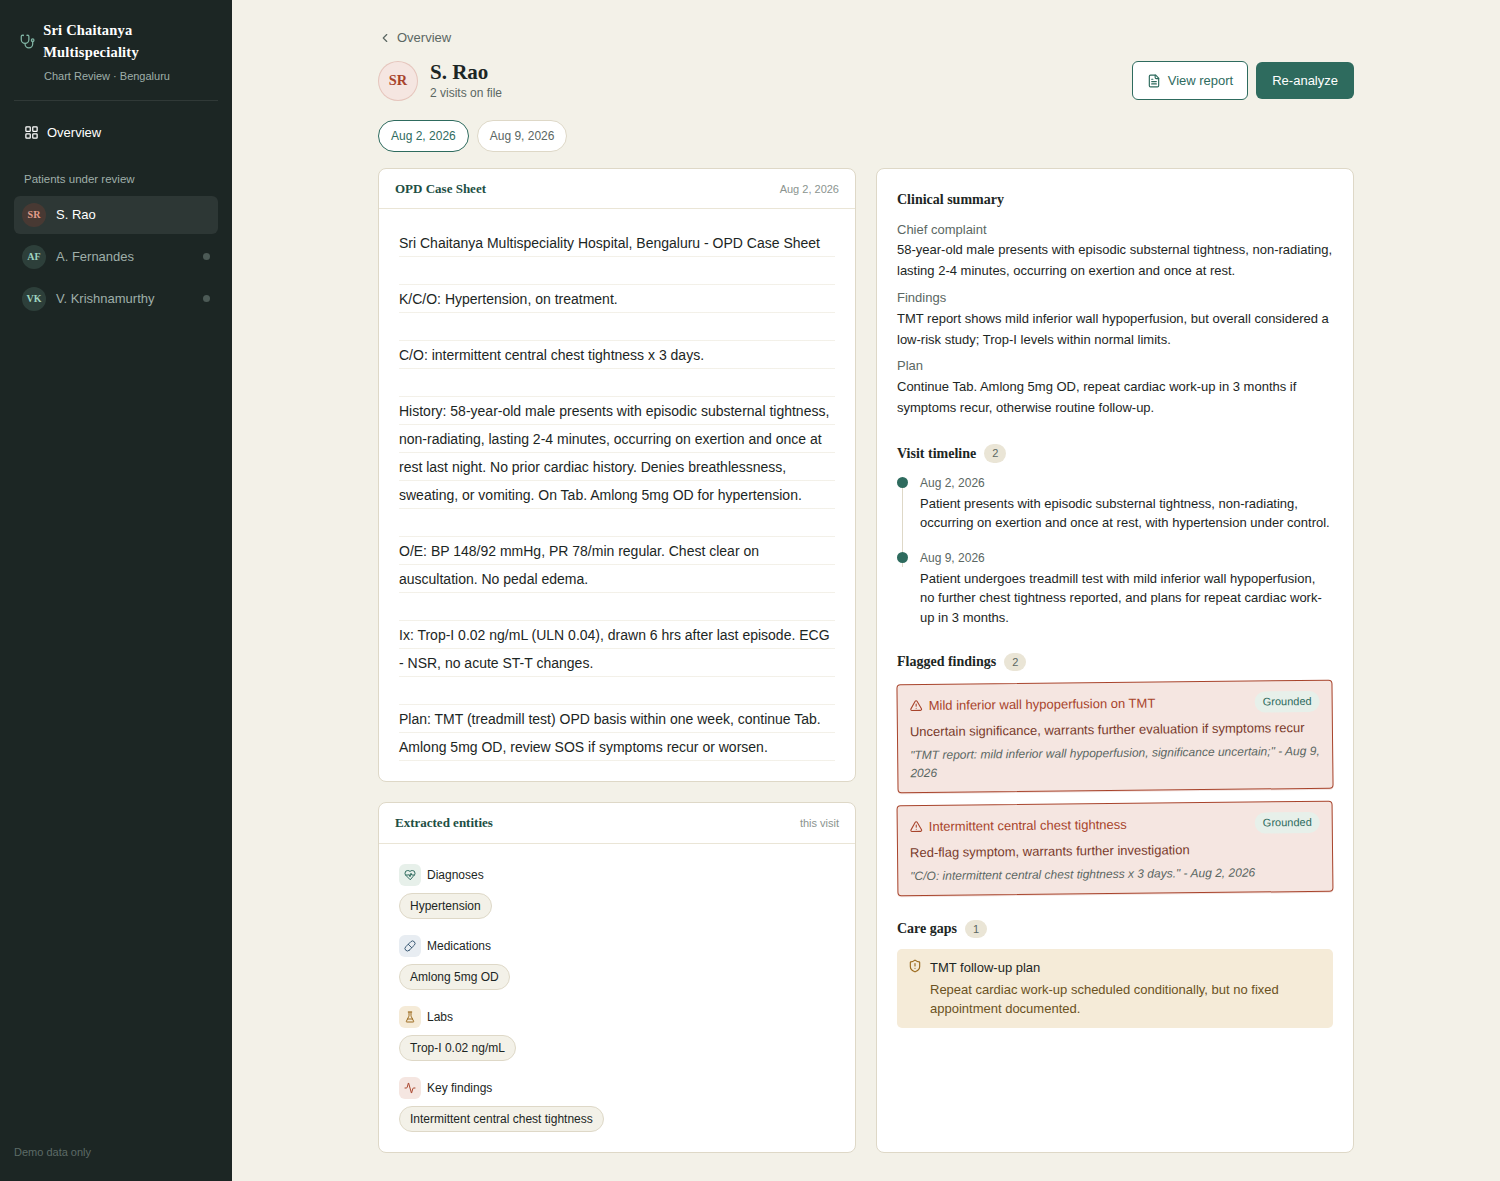
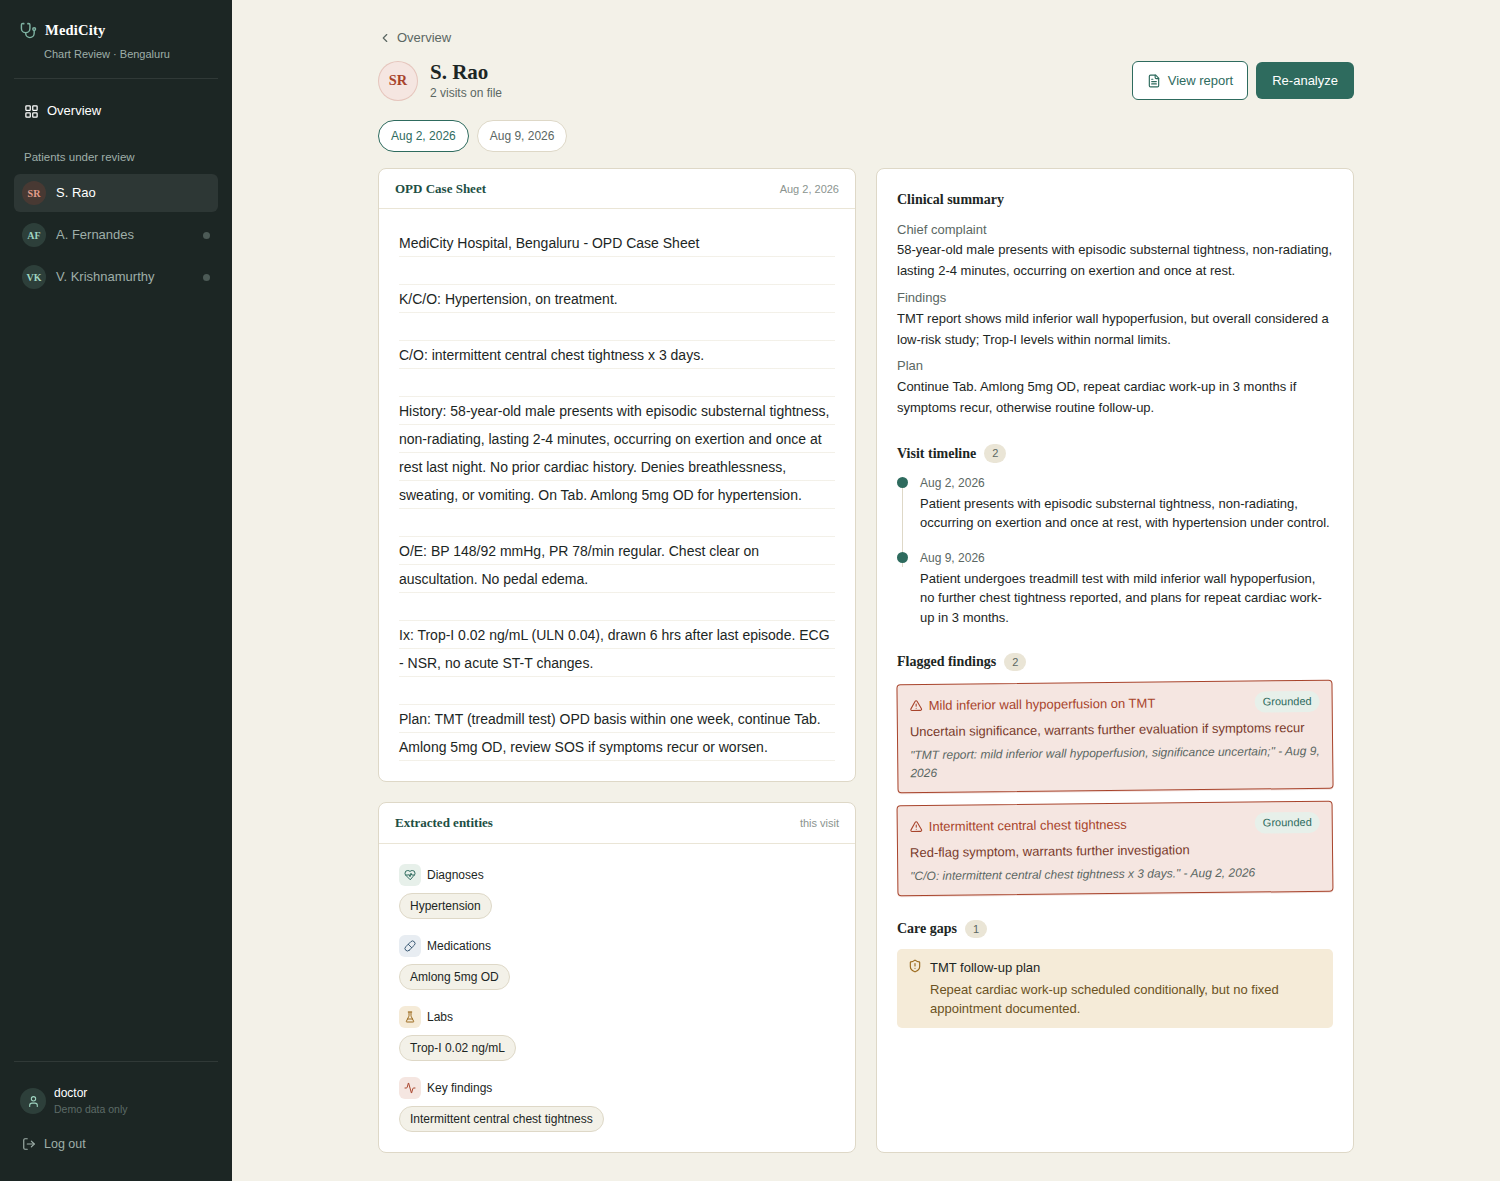
Rename hospital to MediCity, add login/logout

Changed region(s): [[0.0, 0.0, 0.1227, 0.2743], [0.276, 0.1829, 0.552, 0.2134], [0.0, 0.9145, 0.0613, 0.9754]]

diff --git a/frontend/src/App.jsx b/frontend/src/App.jsx
@@ -15,6 +15,9 @@ import {
   Activity,
   Printer,
   FileText,
+  Lock,
+  LogOut,
+  User,
 } from "lucide-react";
 import {
   BarChart,
@@ -27,6 +30,13 @@ import {
 } from "recharts";
 
 const API_BASE = import.meta.env.VITE_API_BASE_URL || "http://localhost:8000";
+
+// Demo-only login gate. There's no backend user store behind this - it's a
+// client-side check so the app has a real login/logout flow to demo, not a
+// production auth system. Swap this for a real backend auth call before
+// this ever holds real patient data.
+const AUTH_STORAGE_KEY = "medicity_auth_user";
+const DEMO_USER = { username: "doctor", password: "medicity2026", displayName: "Dr. on Duty" };
 
 const CONFIDENCE_STYLES = {
   grounded: { label: "Grounded", color: "#2E6B5E", bg: "#E7F0EA" },
@@ -223,6 +233,155 @@ function EntityCategory({ label, Icon, color, bg, items }) {
   );
 }
 
+// --- Login ------------------------------------------------------------------
+
+function LoginPage({ onLogin }) {
+  const [username, setUsername] = useState("");
+  const [password, setPassword] = useState("");
+  const [error, setError] = useState("");
+  const [submitting, setSubmitting] = useState(false);
+
+  function handleSubmit(e) {
+    e.preventDefault();
+    setSubmitting(true);
+    setError("");
+    // Simulated network delay so the login feels real rather than instant.
+    setTimeout(() => {
+      if (username.trim() === DEMO_USER.username && password === DEMO_USER.password) {
+        onLogin(username.trim());
+      } else {
+        setError("Incorrect username or password.");
+      }
+      setSubmitting(false);
+    }, 350);
+  }
+
+  return (
+    <div
+      style={{
+        fontFamily: "'IBM Plex Sans', sans-serif",
+        background: colors.paper,
+        minHeight: "100vh",
+        display: "flex",
+        alignItems: "center",
+        justifyContent: "center",
+        padding: "24px",
+      }}
+    >
+      <style>{`.cns-serif { font-family: 'Source Serif 4', serif; }`}</style>
+      <div style={{ width: "100%", maxWidth: "380px" }}>
+        <div style={{ textAlign: "center", marginBottom: "22px" }}>
+          <span
+            style={{
+              display: "inline-flex",
+              alignItems: "center",
+              justifyContent: "center",
+              width: 46,
+              height: 46,
+              borderRadius: "10px",
+              background: colors.tealTint,
+              color: colors.tealDeep,
+              marginBottom: "12px",
+            }}
+          >
+            <Stethoscope size={22} />
+          </span>
+          <h1 className="cns-serif" style={{ fontSize: "22px", fontWeight: 600, color: colors.ink }}>
+            MediCity
+          </h1>
+          <p style={{ fontSize: "13px", color: colors.muted, marginTop: "2px" }}>Chart Review &middot; Bengaluru</p>
+        </div>
+
+        <form
+          onSubmit={handleSubmit}
+          style={{ background: colors.panel, border: `1px solid ${colors.line}`, borderRadius: "10px", padding: "26px" }}
+        >
+          <h2 className="cns-serif" style={{ fontSize: "16px", fontWeight: 600, marginBottom: "4px" }}>
+            Sign in
+          </h2>
+          <p style={{ fontSize: "12.5px", color: colors.muted, marginBottom: "18px" }}>
+            Enter your credentials to access the chart review dashboard.
+          </p>
+
+          <label style={{ display: "block", fontSize: "12px", color: colors.muted, marginBottom: "5px" }}>Username</label>
+          <div style={{ position: "relative", marginBottom: "14px" }}>
+            <User size={15} style={{ position: "absolute", left: "11px", top: "50%", transform: "translateY(-50%)", color: colors.faint }} />
+            <input
+              type="text"
+              value={username}
+              onChange={(e) => setUsername(e.target.value)}
+              placeholder="doctor"
+              autoFocus
+              style={{
+                width: "100%",
+                boxSizing: "border-box",
+                padding: "9px 12px 9px 34px",
+                fontSize: "13.5px",
+                border: `1px solid ${colors.line}`,
+                borderRadius: "6px",
+                outline: "none",
+                fontFamily: "inherit",
+              }}
+            />
+          </div>
+
+          <label style={{ display: "block", fontSize: "12px", color: colors.muted, marginBottom: "5px" }}>Password</label>
+          <div style={{ position: "relative", marginBottom: "6px" }}>
+            <Lock size={15} style={{ position: "absolute", left: "11px", top: "50%", transform: "translateY(-50%)", color: colors.faint }} />
+            <input
+              type="password"
+              value={password}
+              onChange={(e) => setPassword(e.target.value)}
+              placeholder="&bull;&bull;&bull;&bull;&bull;&bull;&bull;&bull;"
+              style={{
+                width: "100%",
+                boxSizing: "border-box",
+                padding: "9px 12px 9px 34px",
+                fontSize: "13.5px",
+                border: `1px solid ${colors.line}`,
+                borderRadius: "6px",
+                outline: "none",
+                fontFamily: "inherit",
+              }}
+            />
+          </div>
+
+          {error && <p style={{ color: colors.rust, fontSize: "12.5px", marginTop: "8px" }}>{error}</p>}
+
+          <button
+            type="submit"
+            disabled={submitting}
+            style={{
+              width: "100%",
+              marginTop: "18px",
+              background: colors.teal,
+              color: "#FFFFFF",
+              border: "none",
+              borderRadius: "6px",
+              padding: "10px 16px",
+              fontSize: "13.5px",
+              fontWeight: 500,
+              cursor: submitting ? "default" : "pointer",
+              opacity: submitting ? 0.8 : 1,
+              display: "inline-flex",
+              alignItems: "center",
+              justifyContent: "center",
+              gap: "7px",
+            }}
+          >
+            {submitting && <Loader2 size={14} className="animate-spin" />}
+            {submitting ? "Signing in..." : "Sign in"}
+          </button>
+        </form>
+
+        <p style={{ textAlign: "center", fontSize: "11.5px", color: colors.faint, marginTop: "16px" }}>
+          Demo credentials: <strong>doctor</strong> / <strong>medicity2026</strong>
+        </p>
+      </div>
+    </div>
+  );
+}
+
 // --- Printable lab-style report -------------------------------------------
 // A self-contained, print-friendly rendering of one patient's analysis -
 // letterhead, patient info block, and the same underlying data as the
@@ -321,7 +480,7 @@ function ReportView({ patient, result, onBack }) {
       >
         <div style={{ textAlign: "center", borderBottom: "2px solid #1A1A1A", paddingBottom: "14px", marginBottom: "22px" }}>
           <p className="cns-serif" style={{ fontSize: "19px", fontWeight: 700, letterSpacing: "0.3px" }}>
-            Sri Chaitanya Multispeciality Hospital
+            MediCity Hospital
           </p>
           <p style={{ fontSize: "11px", color: "#555555", marginTop: "2px" }}>
             Bengaluru, Karnataka &middot; Department of Medicine
@@ -458,6 +617,14 @@ function ReportView({ patient, result, onBack }) {
 }
 
 export default function App() {
+  const [currentUser, setCurrentUser] = useState(() => {
+    try {
+      return localStorage.getItem(AUTH_STORAGE_KEY) || null;
+    } catch {
+      return null;
+    }
+  });
+
   const [patients, setPatients] = useState([]);
   const [patientsError, setPatientsError] = useState(null);
   const [patientsLoading, setPatientsLoading] = useState(true);
@@ -470,7 +637,28 @@ export default function App() {
   const [errors, setErrors] = useState({});
   const [lastAnalyzed, setLastAnalyzed] = useState(null);
 
+  function handleLogin(username) {
+    try {
+      localStorage.setItem(AUTH_STORAGE_KEY, username);
+    } catch {
+      // localStorage can be unavailable (private browsing, blocked cookies);
+      // the session still works, it just won't survive a refresh.
+    }
+    setCurrentUser(username);
+  }
+
+  function handleLogout() {
+    try {
+      localStorage.removeItem(AUTH_STORAGE_KEY);
+    } catch {
+      /* see note above */
+    }
+    setCurrentUser(null);
+    setView("overview");
+  }
+
   useEffect(() => {
+    if (!currentUser) return;
     fetch(`${API_BASE}/patients`)
       .then((res) => {
         if (!res.ok) throw new Error("Request failed");
@@ -486,7 +674,7 @@ export default function App() {
         );
       })
       .finally(() => setPatientsLoading(false));
-  }, []);
+  }, [currentUser]);
 
   const activePatient = patients.find((p) => p.id === activePatientId);
   const activeResult = activePatientId ? results[activePatientId] : null;
@@ -530,6 +718,10 @@ export default function App() {
     setActivePatientId(id);
     setActiveVisitIndex(0);
     setView("patient");
+  }
+
+  if (!currentUser) {
+    return <LoginPage onLogin={handleLogin} />;
   }
 
   if (patientsError) {
@@ -618,7 +810,7 @@ export default function App() {
             <div className="flex items-center gap-2" style={{ marginBottom: "4px" }}>
               <Stethoscope size={17} style={{ color: "#7FB3A3" }} />
               <span className="cns-serif" style={{ fontSize: "14.5px", fontWeight: 600, letterSpacing: "0.2px" }}>
-                Sri Chaitanya Multispeciality
+                MediCity
               </span>
             </div>
             <p style={{ fontSize: "11px", color: colors.sidebarMuted, paddingLeft: "24px" }}>
@@ -701,8 +893,51 @@ export default function App() {
             </div>
           </div>
 
-          <div style={{ marginTop: "auto", paddingTop: "16px" }}>
-            <p style={{ fontSize: "11px", color: "#5C6B67" }}>Demo data only</p>
+          <div style={{ marginTop: "auto", paddingTop: "16px", borderTop: "1px solid rgba(255,255,255,0.09)" }}>
+            <div className="flex items-center gap-2" style={{ padding: "6px 6px 10px 6px" }}>
+              <span
+                style={{
+                  width: 26,
+                  height: 26,
+                  borderRadius: "50%",
+                  background: "rgba(127,179,163,0.18)",
+                  color: "#9FD4C0",
+                  display: "inline-flex",
+                  alignItems: "center",
+                  justifyContent: "center",
+                  flexShrink: 0,
+                }}
+              >
+                <User size={13} />
+              </span>
+              <div style={{ minWidth: 0 }}>
+                <p style={{ fontSize: "12px", color: "#FFFFFF", fontWeight: 500, whiteSpace: "nowrap", overflow: "hidden", textOverflow: "ellipsis" }}>
+                  {currentUser}
+                </p>
+                <p style={{ fontSize: "10.5px", color: "#5C6B67" }}>Demo data only</p>
+              </div>
+            </div>
+            <button
+              className="cns-navbtn cns-focus"
+              onClick={handleLogout}
+              style={{
+                display: "flex",
+                alignItems: "center",
+                gap: "8px",
+                width: "100%",
+                padding: "7px 8px",
+                borderRadius: "6px",
+                background: "none",
+                border: "none",
+                color: colors.sidebarMuted,
+                fontSize: "12.5px",
+                cursor: "pointer",
+                textAlign: "left",
+              }}
+            >
+              <LogOut size={14} />
+              Log out
+            </button>
           </div>
         </div>
 

diff --git a/frontend/index.html b/frontend/index.html
@@ -7,7 +7,7 @@
       href="https://fonts.googleapis.com/css2?family=IBM+Plex+Sans:wght@400;500;600&family=Source+Serif+4:opsz,wght@8..60,500;8..60,600&display=swap"
       rel="stylesheet"
     />
-    <title>Chart Review</title>
+    <title>MediCity Chart Review</title>
   </head>
   <body>
     <div id="root"></div>

diff --git a/backend/app/data.py b/backend/app/data.py
@@ -12,7 +12,7 @@ PATIENTS = [
             {
                 "date": "Aug 2, 2026",
                 "text": (
-                    "Sri Chaitanya Multispeciality Hospital, Bengaluru - OPD Case Sheet\n\n"
+                    "MediCity Hospital, Bengaluru - OPD Case Sheet\n\n"
                     "K/C/O: Hypertension, on treatment.\n\n"
                     "C/O: intermittent central chest tightness x 3 days.\n\n"
                     "History: 58-year-old male presents with episodic substernal "
@@ -31,7 +31,7 @@ PATIENTS = [
             {
                 "date": "Aug 9, 2026",
                 "text": (
-                    "Sri Chaitanya Multispeciality Hospital, Bengaluru - OPD Case Sheet\n\n"
+                    "MediCity Hospital, Bengaluru - OPD Case Sheet\n\n"
                     "F/U after TMT.\n\n"
                     "TMT report: mild inferior wall hypoperfusion, significance "
                     "uncertain; overall read as low-risk study. Patient reports no "
@@ -50,7 +50,7 @@ PATIENTS = [
             {
                 "date": "Jun 14, 2026",
                 "text": (
-                    "Sri Chaitanya Multispeciality Hospital, Bengaluru - OPD Case Sheet\n\n"
+                    "MediCity Hospital, Bengaluru - OPD Case Sheet\n\n"
                     "K/C/O: Type 2 Diabetes Mellitus.\n\n"
                     "C/O: routine follow-up, T2DM.\n\n"
                     "History: 46-year-old female here for scheduled diabetes review. "
@@ -69,7 +69,7 @@ PATIENTS = [
             {
                 "date": "Sep 20, 2026",
                 "text": (
-                    "Sri Chaitanya Multispeciality Hospital, Bengaluru - OPD Case Sheet\n\n"
+                    "MediCity Hospital, Bengaluru - OPD Case Sheet\n\n"
                     "C/O: routine follow-up, T2DM.\n\n"
                     "History: reports continued compliance with Glycomet, no new "
                     "complaints. Fundus exam still not done - reports difficulty "
@@ -88,7 +88,7 @@ PATIENTS = [
             {
                 "date": "Jul 20, 2026",
                 "text": (
-                    "Sri Chaitanya Multispeciality Hospital, Bengaluru - OPD Case Sheet\n\n"
+                    "MediCity Hospital, Bengaluru - OPD Case Sheet\n\n"
                     "POD 10 after laparoscopic cholecystectomy.\n\n"
                     "Port site wounds healing well, no signs of infection. Mild "
                     "intermittent right hypochondrium discomfort, tolerable. Denies "
@@ -100,7 +100,7 @@ PATIENTS = [
             {
                 "date": "Aug 24, 2026",
                 "text": (
-                    "Sri Chaitanya Multispeciality Hospital, Bengaluru - OPD Case Sheet\n\n"
+                    "MediCity Hospital, Bengaluru - OPD Case Sheet\n\n"
                     "F/U after laparoscopic cholecystectomy.\n\n"
                     "Reports occasional right hypochondrium discomfort, milder than "
                     "before. No fever, no jaundice. Follow-up USG was not scheduled due "
